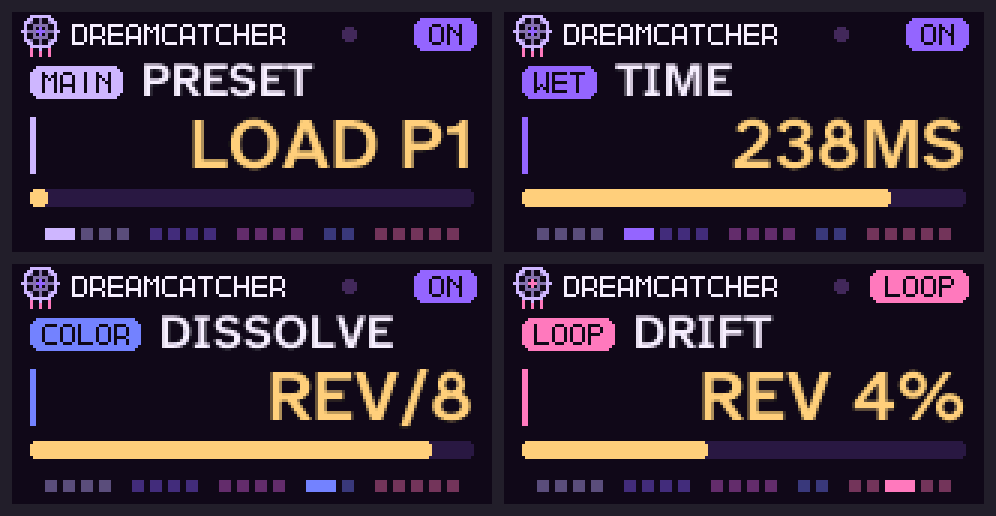
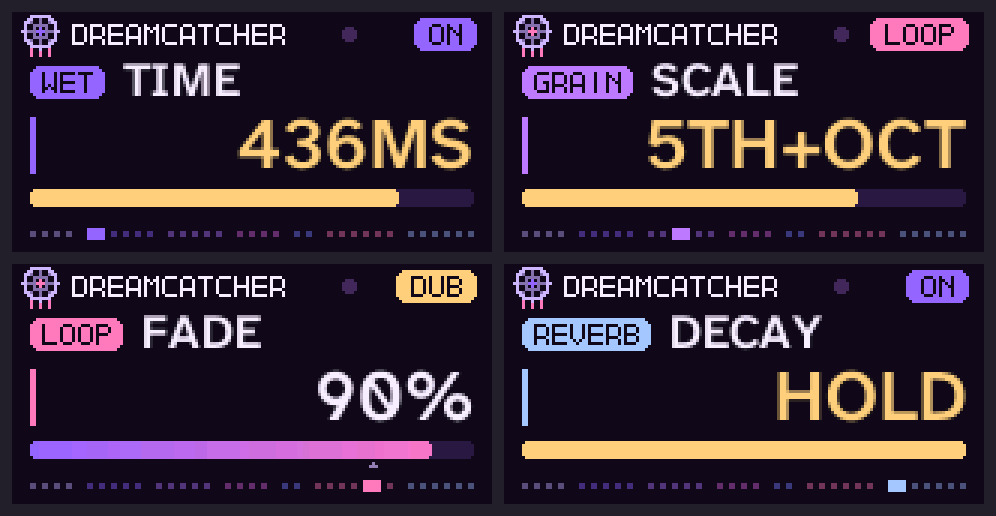
README: 1.2 in the intro and the screens; live control described without an unreleased tool

diff --git a/nds32/test/ui_mock.c b/nds32/test/ui_mock.c
@@ -1,7 +1,7 @@
 /* Screen mock-ups on the computer: the real controls.c + ui.c + firmware.c render states into a PNG sheet.
  * Run by ./test.sh (writes build/screens.png). Needs zlib.
  *   ui_mock out.png [n ...]   only screens n (0-based, in the order below); the README's docs/screens.png is
- *                             build/ui_mock docs/screens.png 4 5 7 9 */
+ *                             build/ui_mock docs/screens.png 5 12 13 15 */
 #include <stdio.h>
 #include <stdlib.h>
 #include <stdint.h>

diff --git a/README.md b/README.md
@@ -16,7 +16,8 @@ contains none of their code.
 Your playing is recorded all the time. One press catches the last moments as a loop that plays back like tape
 or is stretched into slow-moving slices. Alongside it, a wet channel lets bits of sound into a delay "by chance"
 once per LFO cycle, smears them into reverb, jumps their clock in octaves, reverses or crushes them, modulates
-and filters them. The loop can be routed into the wet channel, so the two halves feed each other.
+and filters them. Grains read the delay and can jump in pitch, play backwards or stutter, and a hall reverb
+holds it all. The loop can be routed into the wet channel, so the two halves feed each other.
 
 > **Alpha.** Flashing custom firmware can go wrong. Read OpenGP5's
 > [getting-started guide](https://github.com/OpenGP5/OpenGP5/blob/main/GETTING-STARTED.md), especially
@@ -36,7 +37,7 @@ and filters them. The loop can be routed into the wet channel, so the two halves
 The LEDs glow violet when Dreamcatcher is on and dim red when it is off. The dot in the screen's header pulses at the LFO rate, like a "moment
 of chance" light.
 
-![Four of Dreamcatcher's screens: a preset highlighted to load, TIME, DISSOLVE and the looper's DRIFT](docs/screens.png)
+![Four of Dreamcatcher's screens: TIME, the grains' SCALE, overdubbing into a loop (DUB), and the reverb's DECAY at HOLD](docs/screens.png)
 
 ## Settings
 
@@ -119,8 +120,8 @@ python3 opengp5/tools/dsp_emu_check.py build/GP-5_dreamcatcher.bin   # the built
 | `nds32/firmware.c` | connects controls and screen to the OpenGP5 control platform; the LFO pulse |
 | `opengp5/` | the platform, a git submodule pinned to a tested release (0.5.4-alpha) |
 
-Every setting can also be changed live from a computer: OpenGP5 Launchpad's Presets page shows them all in the pedal's sections
-(OpenGP5 0.5.4: USB `7E 10` / `7E 11`; the ids are in `params.h`, `DC_P_*` for VOLUME, presets and saving). Presets made
+Every setting can also be changed live from a computer over USB (OpenGP5 0.5.4: `7E 10` sets one, `7E 11` reads
+them; the ids are in `params.h`, with `DC_P_*` for VOLUME, loading and saving presets). Presets made
 with 1.0, 1.1 or earlier 1.2 builds load with the reverb off, so they sound as they were saved.
 
 Things learnt on the way, useful for any OpenGP5 firmware:
